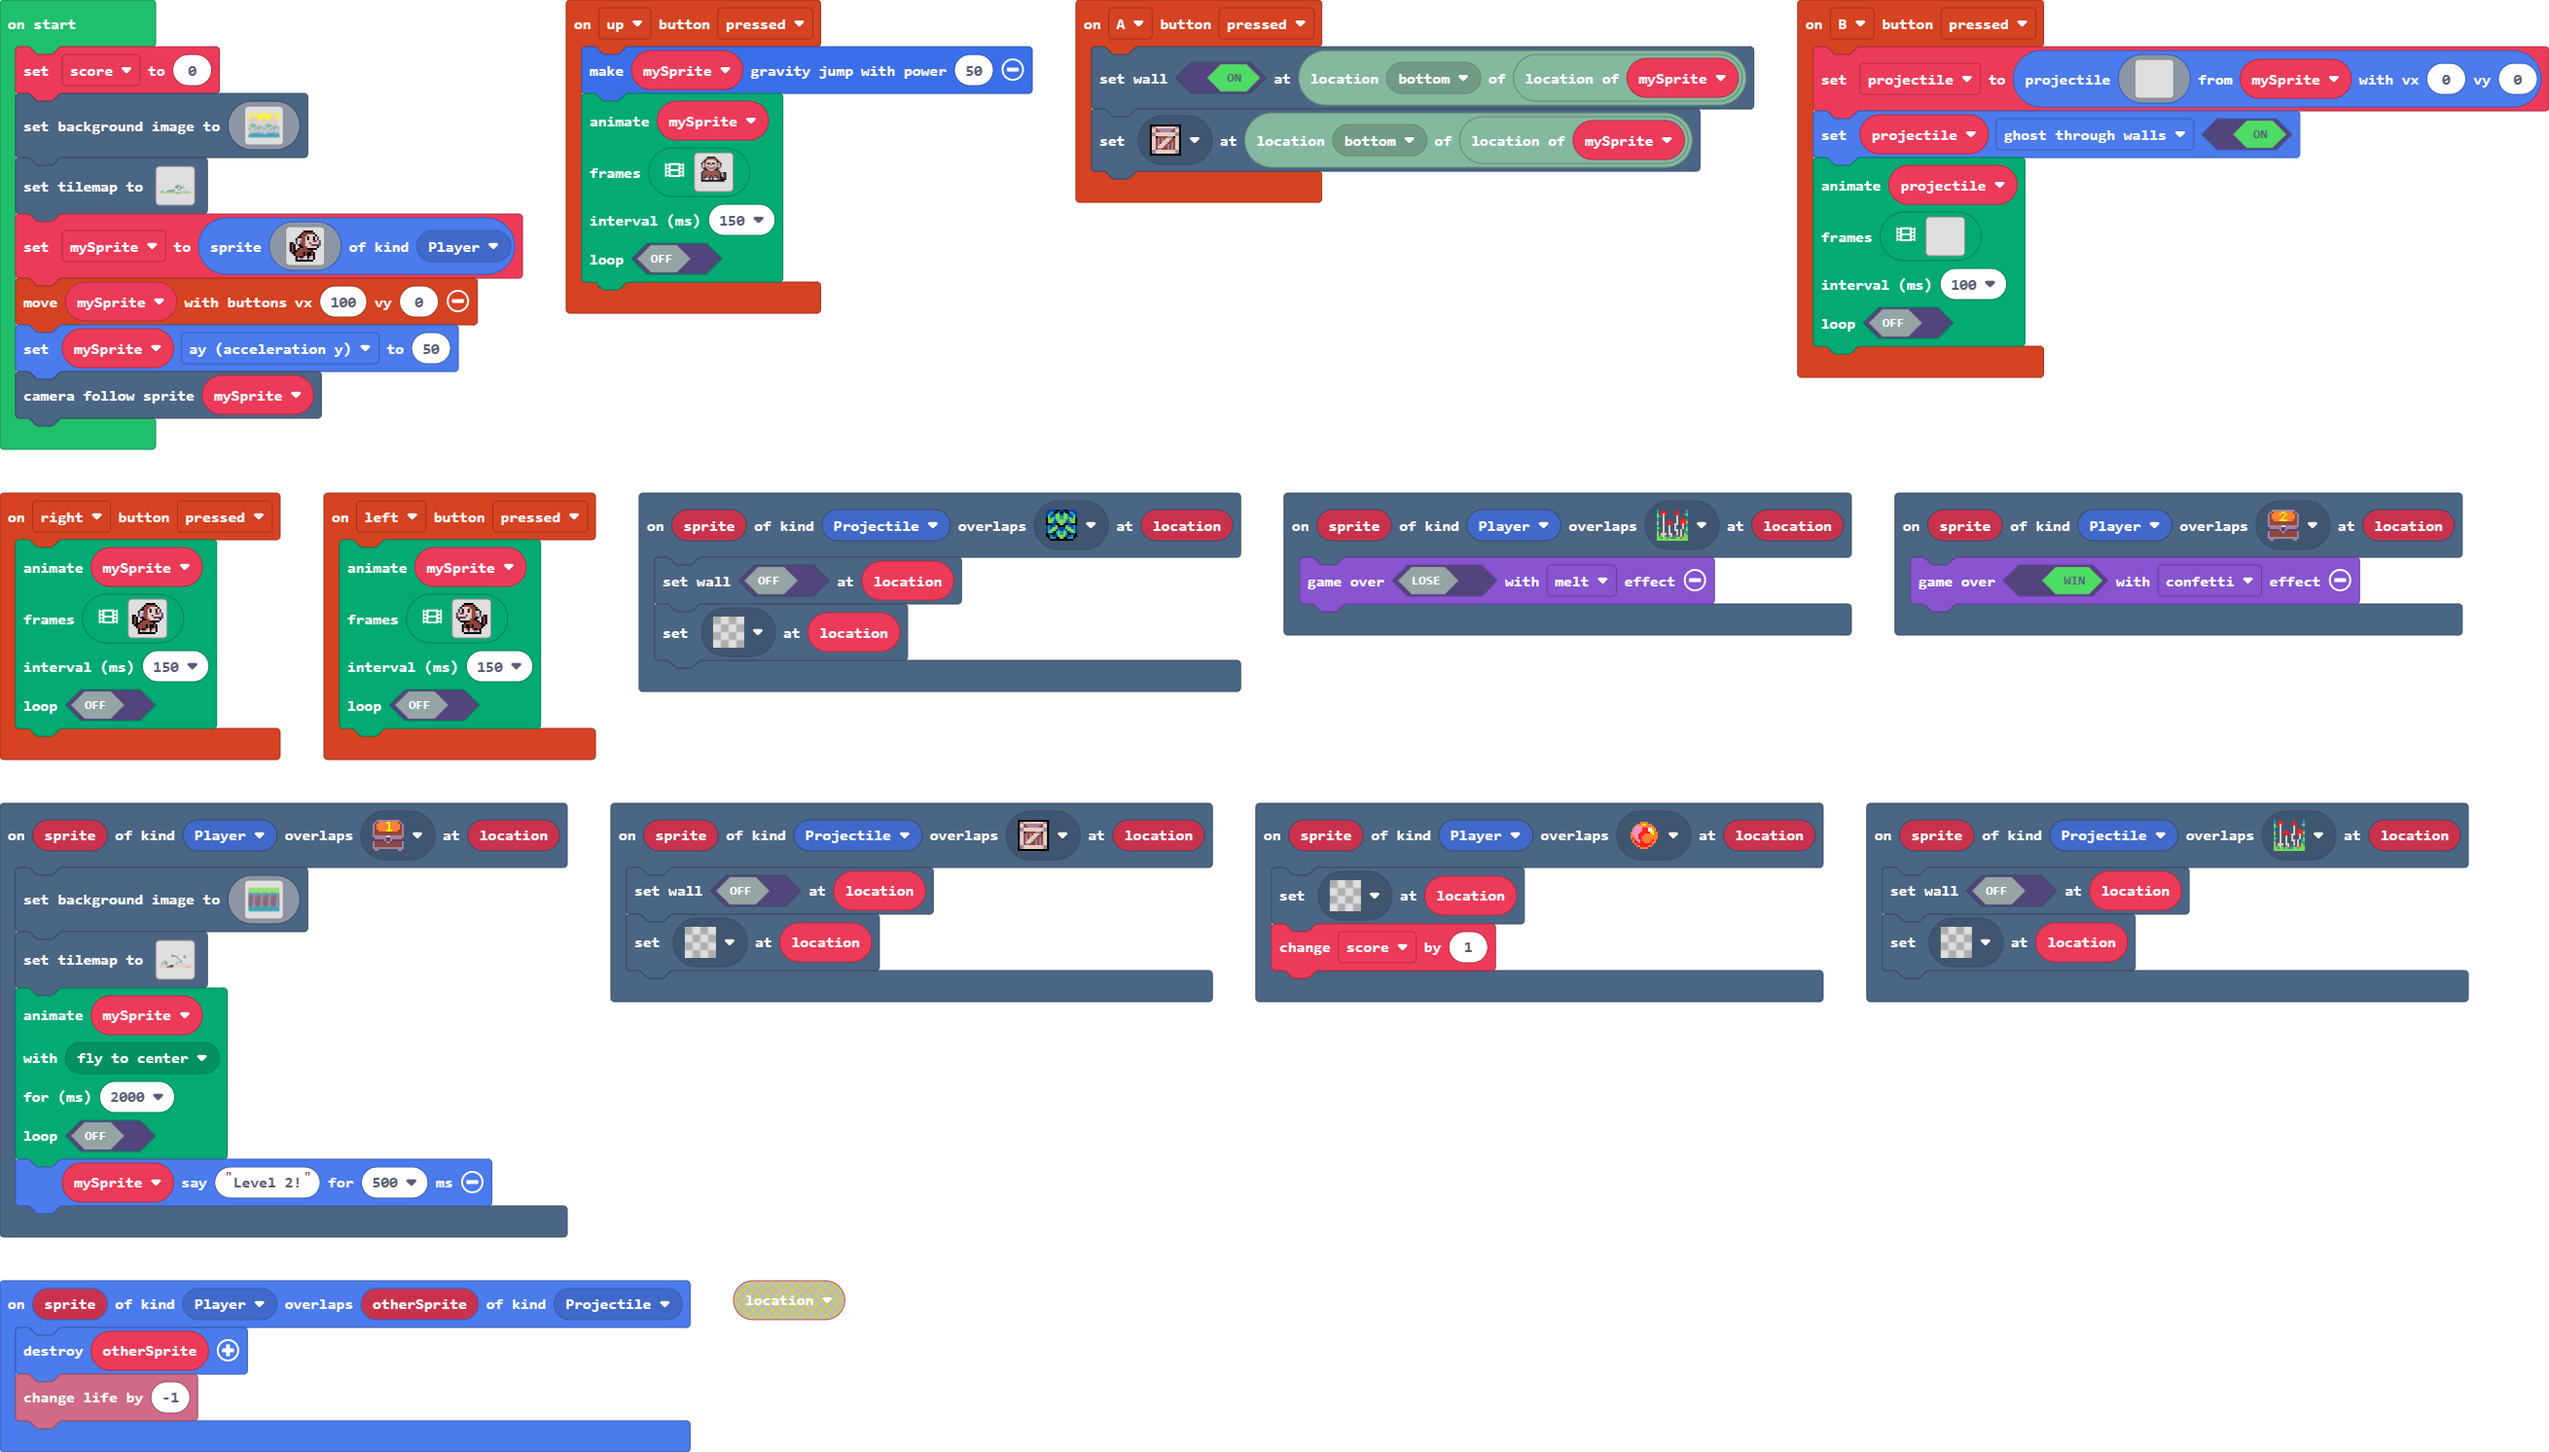
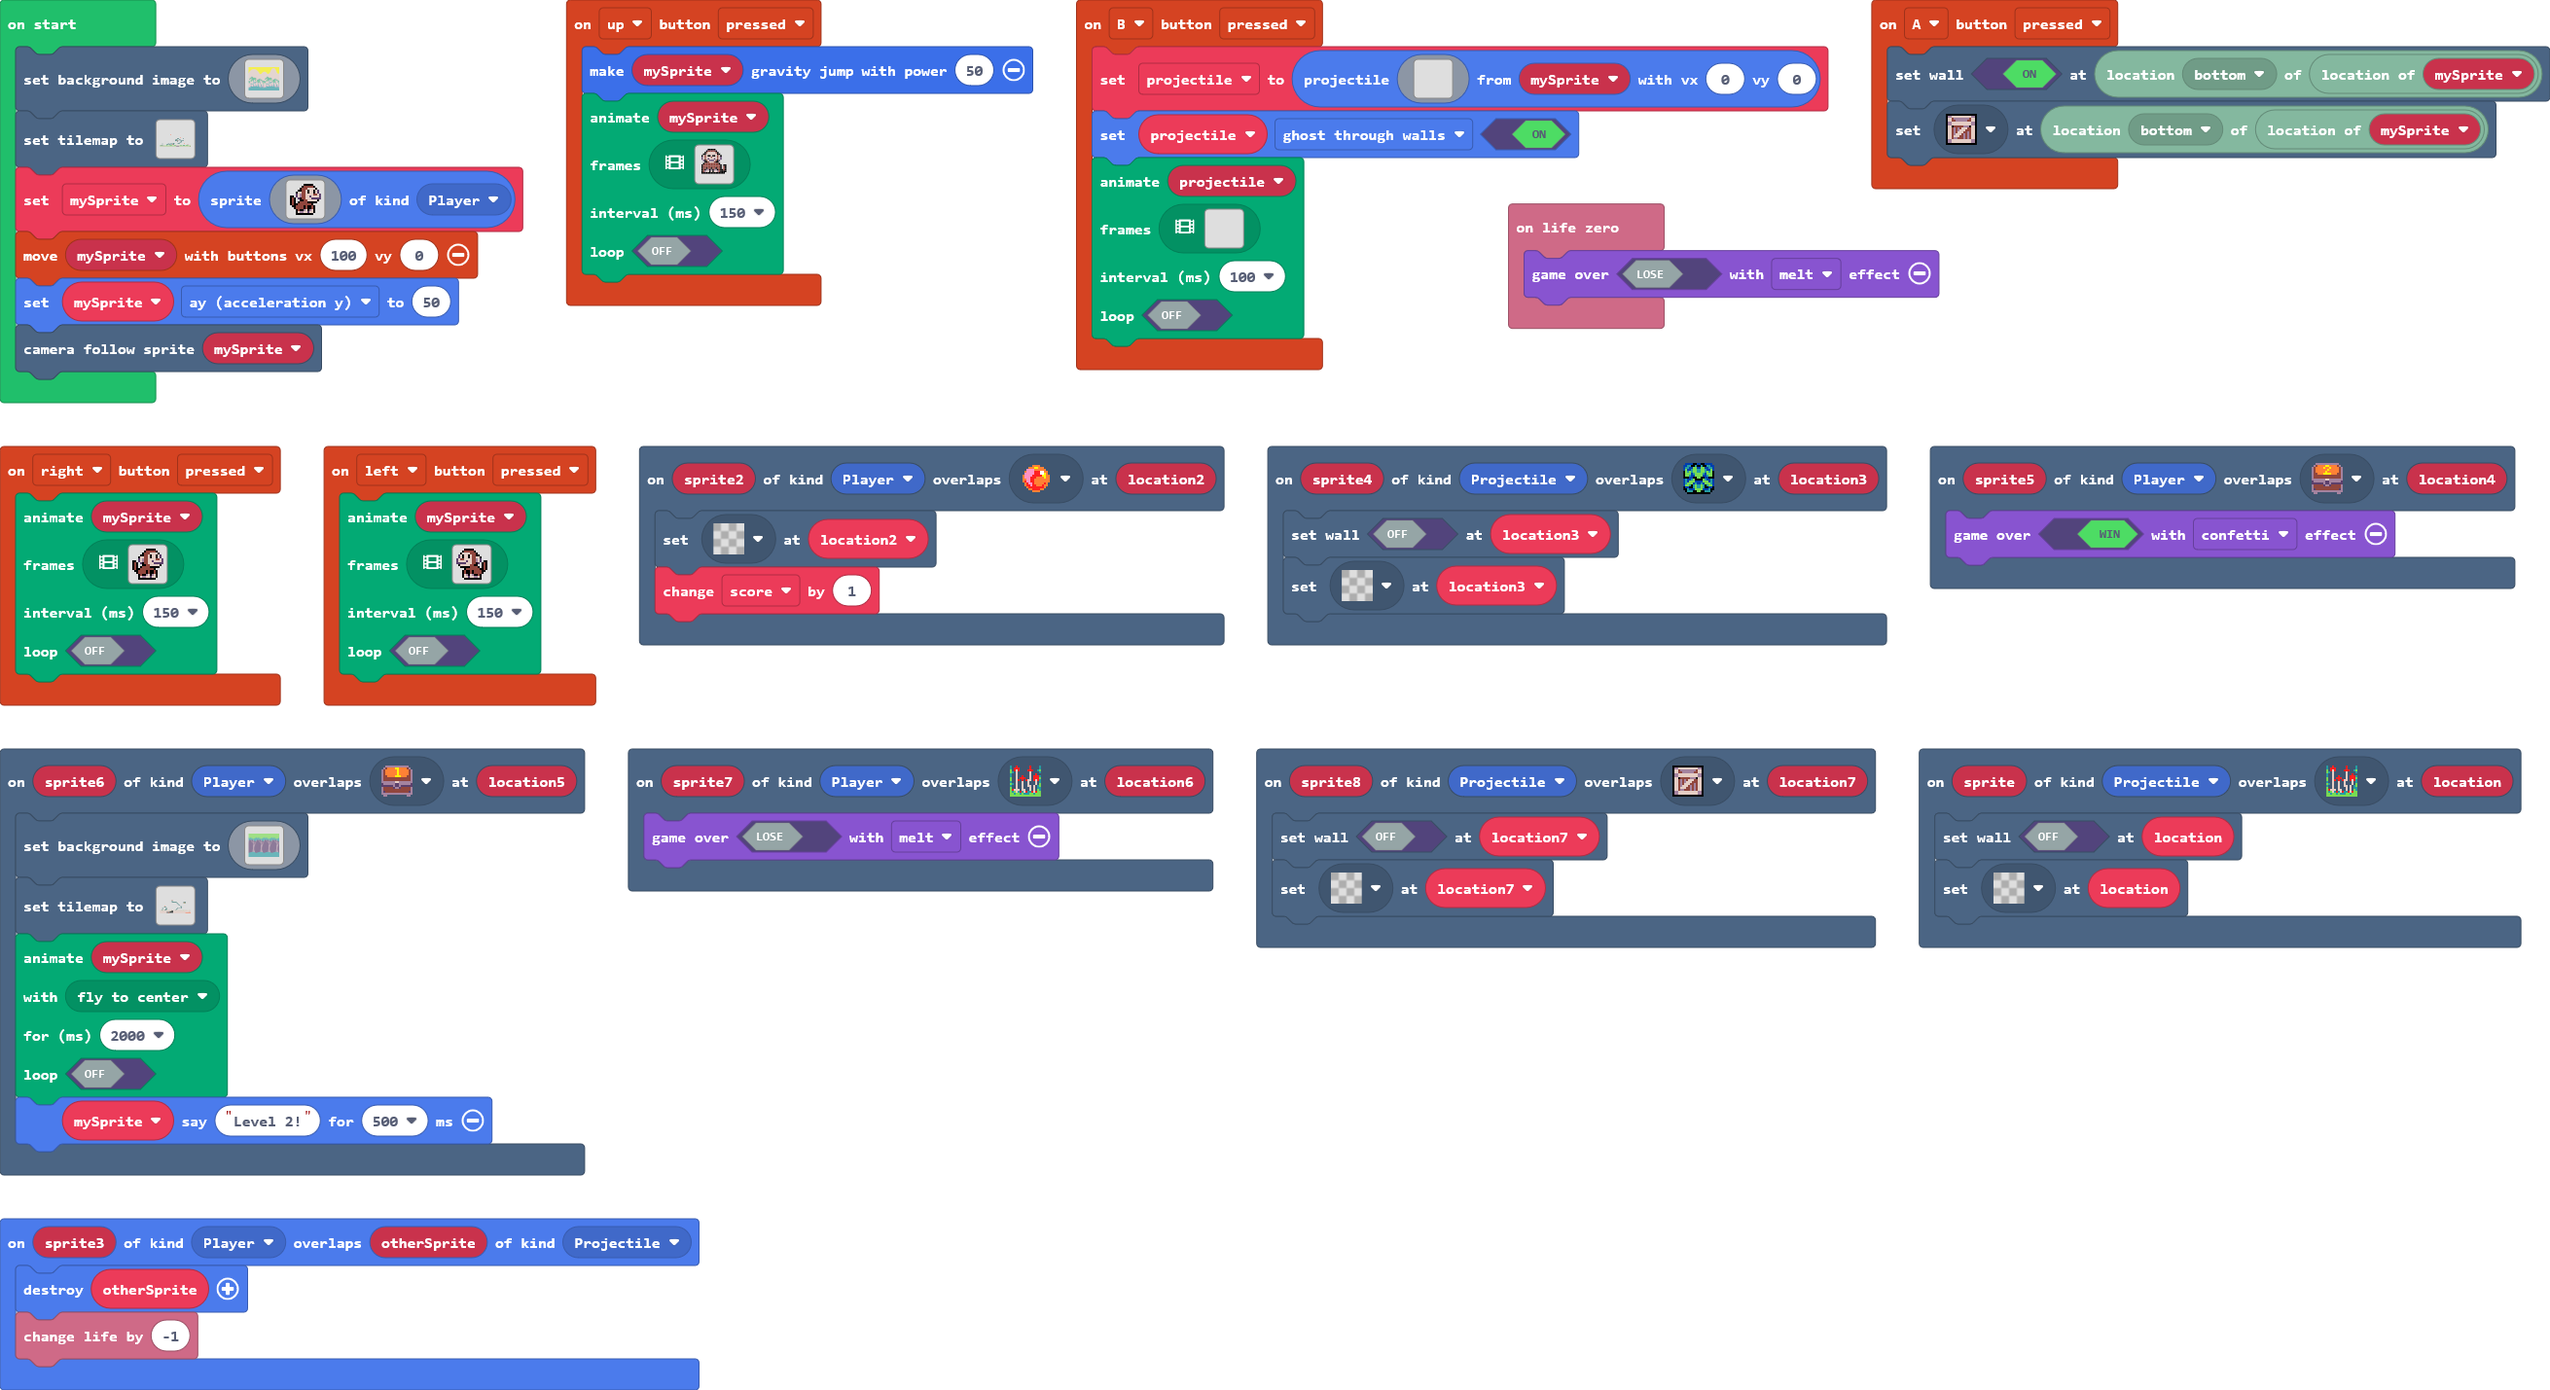
Update pxt.json, main.blocks, main.ts, pxt.json

diff --git a/main.ts b/main.ts
@@ -1,121 +1,105 @@
-scene.onOverlapTile(SpriteKind.Projectile, assets.tile`
-        poison pit
-    `, function on_overlap_tile(sprite: Sprite, location: tiles.Location) {
+scene.onOverlapTile(SpriteKind.Projectile, assets.tile`poison pit`, function (sprite, location) {
     tiles.setWallAt(location, false)
-    tiles.setTileAt(location, assets.tile`
-        transparency16
-    `)
+    tiles.setTileAt(location, assets.tile`transparency16`)
 })
-controller.up.onEvent(ControllerButtonEvent.Pressed, function on_up_pressed() {
+controller.up.onEvent(ControllerButtonEvent.Pressed, function () {
     simplified.gravity_jump(mySprite, 50)
-    animation.runImageAnimation(mySprite, assets.animation`
-        jump
-    `, 150, false)
+    animation.runImageAnimation(
+    mySprite,
+    assets.animation`jump`,
+    150,
+    false
+    )
 })
-controller.B.onEvent(ControllerButtonEvent.Pressed, function on_b_pressed() {
-    
+controller.B.onEvent(ControllerButtonEvent.Pressed, function () {
     projectile = sprites.createProjectileFromSprite(img`
-            . . . . . . . . . . . . . . . . 
-                    . . . . . . . . . . . . . . . . 
-                    . . . . . . . . . . . . . . . . 
-                    . . . . . . . . . . . . . . . . 
-                    . . . . . . . . . . . . . . . . 
-                    . . . . . . . . . . . . . . . . 
-                    . . . . . . . . . . . . . . . . 
-                    . . . . . . . . . . . . . . . . 
-                    . . . . . . . . . . . . . . . . 
-                    . . . . . . . . . . . . . . . . 
-                    . . . . . . . . . . . . . . . . 
-                    . . . . . . . . . . . . . . . . 
-                    . . . . . . . . . . . . . . . . 
-                    . . . . . . . . . . . . . . . . 
-                    . . . . . . . . . . . . . . . . 
-                    . . . . . . . . . . . . . . . .
+        . . . . . . . . . . . . . . . . 
+        . . . . . . . . . . . . . . . . 
+        . . . . . . . . . . . . . . . . 
+        . . . . . . . . . . . . . . . . 
+        . . . . . . . . . . . . . . . . 
+        . . . . . . . . . . . . . . . . 
+        . . . . . . . . . . . . . . . . 
+        . . . . . . . . . . . . . . . . 
+        . . . . . . . . . . . . . . . . 
+        . . . . . . . . . . . . . . . . 
+        . . . . . . . . . . . . . . . . 
+        . . . . . . . . . . . . . . . . 
+        . . . . . . . . . . . . . . . . 
+        . . . . . . . . . . . . . . . . 
+        . . . . . . . . . . . . . . . . 
+        . . . . . . . . . . . . . . . . 
         `, mySprite, 0, 0)
     projectile.setFlag(SpriteFlag.GhostThroughWalls, true)
-    animation.runImageAnimation(projectile, assets.animation`
-        splode
-    `, 100, false)
+    animation.runImageAnimation(
+    projectile,
+    assets.animation`splode`,
+    100,
+    false
+    )
 })
-controller.A.onEvent(ControllerButtonEvent.Pressed, function on_a_pressed() {
+controller.A.onEvent(ControllerButtonEvent.Pressed, function () {
     tiles.setWallAt(tiles.locationInDirection(tiles.locationOfSprite(mySprite), CollisionDirection.Bottom), true)
-    tiles.setTileAt(tiles.locationInDirection(tiles.locationOfSprite(mySprite), CollisionDirection.Bottom), assets.tile`
-            bounce
-        `)
+    tiles.setTileAt(tiles.locationInDirection(tiles.locationOfSprite(mySprite), CollisionDirection.Bottom), assets.tile`bounce`)
 })
-controller.left.onEvent(ControllerButtonEvent.Pressed, function on_left_pressed() {
-    animation.runImageAnimation(mySprite, assets.animation`
-            walk left
-        `, 150, false)
+scene.onOverlapTile(SpriteKind.Projectile, assets.tile`bounce`, function (sprite8, location7) {
+    tiles.setWallAt(location7, false)
+    tiles.setTileAt(location7, assets.tile`transparency16`)
 })
-scene.onOverlapTile(SpriteKind.Player, assets.tile`
-        orange bauble
-    `, function on_overlap_tile2(sprite2: Sprite, location2: tiles.Location) {
-    
-    tiles.setTileAt(location2, assets.tile`
-        transparency16
-    `)
+controller.left.onEvent(ControllerButtonEvent.Pressed, function () {
+    animation.runImageAnimation(
+    mySprite,
+    assets.animation`walk left`,
+    150,
+    false
+    )
+})
+scene.onOverlapTile(SpriteKind.Player, assets.tile`orange bauble`, function (sprite2, location2) {
+    tiles.setTileAt(location2, assets.tile`transparency16`)
     score += 1
 })
-controller.right.onEvent(ControllerButtonEvent.Pressed, function on_right_pressed() {
-    animation.runImageAnimation(mySprite, assets.animation`
-            walk right
-        `, 150, false)
+scene.onOverlapTile(SpriteKind.Player, assets.tile`poison pit`, function (sprite7, location6) {
+    game.over(false, effects.melt)
 })
-sprites.onOverlap(SpriteKind.Player, SpriteKind.Projectile, function on_on_overlap(sprite3: Sprite, otherSprite: Sprite) {
+sprites.onOverlap(SpriteKind.Player, SpriteKind.Projectile, function (sprite3, otherSprite) {
     otherSprite.destroy()
     info.changeLifeBy(-1)
 })
-scene.onOverlapTile(SpriteKind.Projectile, assets.tile`
-        skyblock
-    `, function on_overlap_tile3(sprite4: Sprite, location3: tiles.Location) {
-    tiles.setWallAt(location3, false)
-    tiles.setTileAt(location3, assets.tile`
-        transparency16
-    `)
+controller.right.onEvent(ControllerButtonEvent.Pressed, function () {
+    animation.runImageAnimation(
+    mySprite,
+    assets.animation`walk right`,
+    150,
+    false
+    )
 })
-scene.onOverlapTile(SpriteKind.Player, assets.tile`
-        chest2
-    `, function on_overlap_tile4(sprite5: Sprite, location4: tiles.Location) {
-    game.over(true, effects.confetti)
-})
-scene.onOverlapTile(SpriteKind.Player, assets.tile`
-        chest1
-    `, function on_overlap_tile5(sprite6: Sprite, location5: tiles.Location) {
-    scene.setBackgroundImage(assets.image`
-        background2
-    `)
-    tiles.setTilemap(tilemap`
-        level2
-    `)
-    animation.runMovementAnimation(mySprite, animation.animationPresets(animation.flyToCenter), 2000, false)
+scene.onOverlapTile(SpriteKind.Player, assets.tile`chest1`, function (sprite6, location5) {
+    scene.setBackgroundImage(assets.image`background2`)
+    tiles.setTilemap(tilemap`level2`)
+    animation.runMovementAnimation(
+    mySprite,
+    animation.animationPresets(animation.flyToCenter),
+    2000,
+    false
+    )
     mySprite.say("Level 2!", 500)
 })
-scene.onOverlapTile(SpriteKind.Player, assets.tile`
-        poison pit
-    `, function on_overlap_tile6(sprite7: Sprite, location6: tiles.Location) {
+scene.onOverlapTile(SpriteKind.Player, assets.tile`chest2`, function (sprite5, location4) {
+    game.over(true, effects.confetti)
+})
+scene.onOverlapTile(SpriteKind.Projectile, assets.tile`skyblock`, function (sprite4, location3) {
+    tiles.setWallAt(location3, false)
+    tiles.setTileAt(location3, assets.tile`transparency16`)
+})
+info.onLifeZero(function () {
     game.over(false, effects.melt)
 })
-scene.onOverlapTile(SpriteKind.Projectile, assets.tile`
-        bounce
-    `, function on_overlap_tile7(sprite8: Sprite, location7: tiles.Location) {
-    tiles.setWallAt(location7, false)
-    tiles.setTileAt(location7, assets.tile`
-        transparency16
-    `)
-})
-let projectile : Sprite = null
-let mySprite : Sprite = null
 let score = 0
-scene.setBackgroundImage(assets.image`
-    background
-`)
-tiles.setTilemap(tilemap`
-    level1
-`)
-mySprite = sprites.create(assets.image`
-    stand
-`, SpriteKind.Player)
+let projectile: Sprite = null
+let mySprite: Sprite = null
+scene.setBackgroundImage(assets.image`background`)
+tiles.setTilemap(tilemap`level1`)
+mySprite = sprites.create(assets.image`stand`, SpriteKind.Player)
 controller.moveSprite(mySprite, 100, 0)
 mySprite.ay = 50
 scene.cameraFollowSprite(mySprite)
